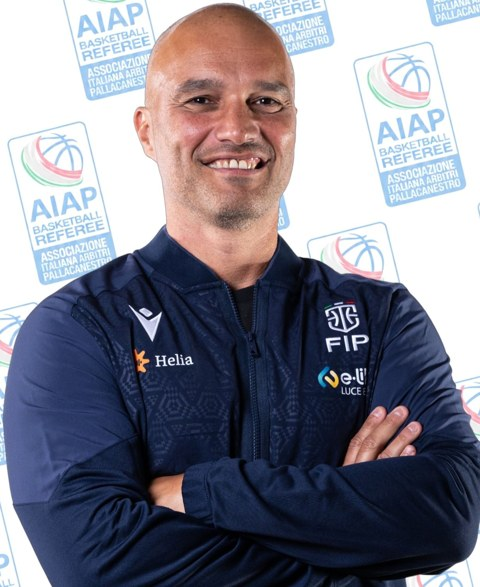
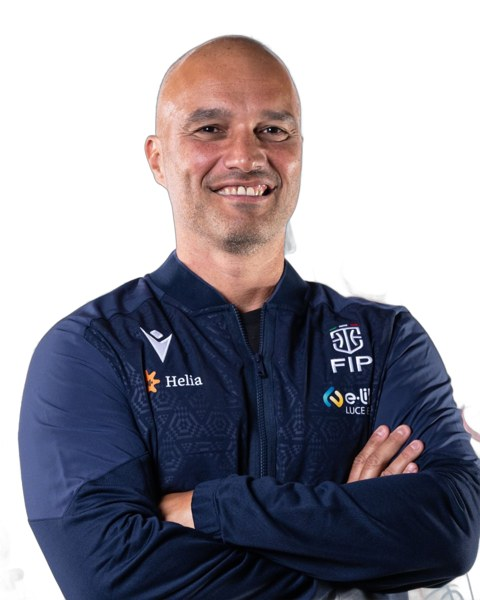
Cut the backdrop from referee photos; write TARGET as in the reference
- build.py removes the AIAP logo-wall backdrop from each referee photo
  (rembg, isnet-general-use model) and puts the referee on white; the six
  photos in referees/ are redone. The refresh workflow installs rembg and
  caches its model.
- A player marked as target gets "TARGET 🎯" (Calibri bold 47 pt, red)
  between CLOSE OUT and ISO instead of the bare emoji.

diff --git a/index.html b/index.html
@@ -667,6 +667,9 @@ async function teamLogo(t) {
 }
 // the reference deck's top-right crest box on the roster, stats and player slides (x, y, w, h in EMU)
 const LOGO_BOX = [11099800, 114300, 1003300, 1003300];
+// player slide: the "TARGET 🎯" label, centred at x 520 pt, top 470 pt (where the reference deck puts it)
+const targetRun = (text, face) => `<a:r><a:rPr lang="en-US" sz="4700" b="1" dirty="0"><a:solidFill><a:srgbClr val="${RED}"/></a:solidFill><a:latin typeface="${face}"/><a:ea typeface="${face}"/><a:cs typeface="${face}"/><a:sym typeface="${face}"/></a:rPr><a:t>${text}</a:t></a:r>`;
+const TARGET_SP = `<p:sp><p:nvSpPr><p:cNvPr id="901" name="Target"/><p:cNvSpPr txBox="1"/><p:nvPr/></p:nvSpPr><p:spPr><a:xfrm><a:off x="4572000" y="5969000"/><a:ext cx="4064000" cy="762000"/></a:xfrm><a:prstGeom prst="rect"><a:avLst/></a:prstGeom><a:noFill/></p:spPr><p:txBody><a:bodyPr wrap="none" lIns="0" tIns="0" rIns="0" bIns="0" anchor="ctr"/><a:lstStyle/><a:p><a:pPr algn="ctr"/>${targetRun("TARGET ", "Calibri")}${targetRun("🎯", "Segoe UI Emoji")}</a:p></p:txBody></p:sp>`;
 // referees slide: where a name goes (EMU from the top) when the referee has no photo, mid-way down the photo row
 const REF_NAME_Y = 2921000;
 // a picture pointed at another image, renamed, and fitted (aspect kept, centred) in box, or in its own frame
@@ -763,16 +766,10 @@ async function buildPptx(t, onlyPlayers, progress) {
       if (k >= 0) tbl = tbl.slice(0, k) + fill + tbl.slice(k + '<a:solidFill><a:srgbClr val="C31A00"/></a:solidFill>'.length);
       xml = xml.slice(0, tb[0]) + tbl + xml.slice(tb[1]);
     }
-    // 🎯 target marker: the template parks 🔑 and 🚀 off-slide; both are dropped, and when the player is a target the 🔑 shape
-    // comes back with the glyph swapped, centred on the slide between CLOSE OUT and ISO.
-    const MY = 5300000;
-    const kb = shapeByName(xml, "🔑"), keyShape = kb ? xml.slice(kb[0], kb[1]) : "";
+    // target marker: the template parks 🔑 and 🚀 off-slide and both are dropped; a target gets "TARGET 🎯" between
+    // CLOSE OUT and ISO, as in the reference deck (Calibri bold 47 pt, red)
     for (const glyph of ["🔑", "🚀"]) { const sb = shapeByName(xml, glyph); if (sb) xml = xml.slice(0, sb[0]) + xml.slice(sb[1]); }
-    if (r.markers.includes("target") && keyShape) {
-      const cx = Number((keyShape.match(/<a:ext cx="(\d+)"/) || [, 1448832])[1]);
-      const sp = keyShape.replace(/🔑/g, "🎯").replace(/<p:cNvPr id="\d+"/, '<p:cNvPr id="901"').replace(/<a:off x="-?\d+" y="-?\d+"\/>/, `<a:off x="${Math.round((12192000 - cx) / 2)}" y="${MY}"/>`);
-      xml = xml.replace("</p:spTree>", sp + "</p:spTree>");
-    }
+    if (r.markers.includes("target")) xml = xml.replace("</p:spTree>", TARGET_SP + "</p:spTree>");
     for (const [k, hex] of [["hand", sideColor(r.hand)], ["minutes", BLUE], ["points", BLUE], ["stat_1", RED], ["stat_2", RED]]) xml = withRun(xml, k, (run) => styleRun(run, hex));
     // ISO: "PUSH" regular, the side in bold, both in the side's colour
     xml = withRun(xml, "iso", (run) => { const side = vars.iso.split(" ")[1]; return side ? styleRun(run.replace("{{iso}}", "PUSH "), sideColor(r.iso), false) + styleRun(run.replace("{{iso}}", side), sideColor(r.iso), true) : run; });

diff --git a/build.py b/build.py
@@ -12,7 +12,8 @@ Reads (all from the analysis repo):
 Fetches (network):
     lba-media S3 (picture_key), EuroCup photo_url    original headshots, once per player (kept at <= 640 px)
     legabasket.it match header, api-live.euroleague.net games   referee crews of games in the next REF_DAYS days
-    aiaponline.it/associati/<first-last>             those referees' profile photos, once per referee
+    aiaponline.it/associati/<first-last>             those referees' profile photos, once per referee, with
+                                                     the logo-wall backdrop removed (needs rembg[cpu])
 Writes:
     data/rosters.json   teams, players, stats, games (with "refs" once a crew is designated), plus the lists of
                         available photos, logos and referee photos
@@ -28,6 +29,7 @@ import argparse
 import collections
 import csv
 import datetime as dt
+import functools
 import io
 import json
 import re
@@ -45,6 +47,7 @@ HTTP_TIMEOUT_S = 30
 REF_DAYS = 10   # crews are looked up only for games this close: they are designated a few days before
 AIAP = "https://www.aiaponline.it"   # the Italian referees' association: /associati/<first-last> has a profile photo
 REF_PHOTO_MAX = (480, 600)
+REF_MATTING_MODEL = "isnet-general-use"   # rembg model that cuts the referee out of the logo wall cleanly
 ROLE_LBA = {"Playmaker": "PG", "Play/Guardia": "PG/SG", "Guardia": "SG", "Guardia/Ala": "SG/SF", "Ala": "SF", "Ala/Centro": "PF/C", "Centro": "C", "-": ""}
 ROLE_EC = {"Guard": "SG", "Forward": "SF", "Center": "C"}
 MY_TEAM, MY_CODE = "BC Roma", "BCR"
@@ -206,11 +209,41 @@ def referee_photo(r: dict, dest: Path) -> bool:
         return False
     from PIL import Image
     with Image.open(data) as raw:
-        im = raw.convert("RGB")
+        im = cut_out(raw.convert("RGB"))
     im.thumbnail(REF_PHOTO_MAX)
     dest.parent.mkdir(exist_ok=True)
     im.save(dest, "JPEG", quality=88, optimize=True)
     return True
+
+
+@functools.cache
+def _matting_session():
+    """The background-removal model, loaded on first use (rembg downloads it once, about 180 MB)."""
+    from rembg import new_session
+    return new_session(REF_MATTING_MODEL)
+
+
+def cut_out(im):
+    """Return the RGB image with its backdrop (the AIAP logo wall) replaced by white.
+
+    Without rembg installed the image comes back unchanged, with a note.
+
+    Args:
+        im: An RGB PIL image of one person.
+
+    Returns:
+        An RGB PIL image of the same size.
+    """
+    from PIL import Image
+    try:
+        from rembg import remove
+    except ImportError:
+        print("referee photo: rembg not installed (pip install 'rembg[cpu]'), backdrop kept")
+        return im
+    cut = remove(im, session=_matting_session())
+    flat = Image.new("RGB", cut.size, "white")
+    flat.paste(cut, mask=cut.getchannel("A"))
+    return flat
 
 
 def headshot(url: str, fallback: Path, dest: Path) -> bool:
